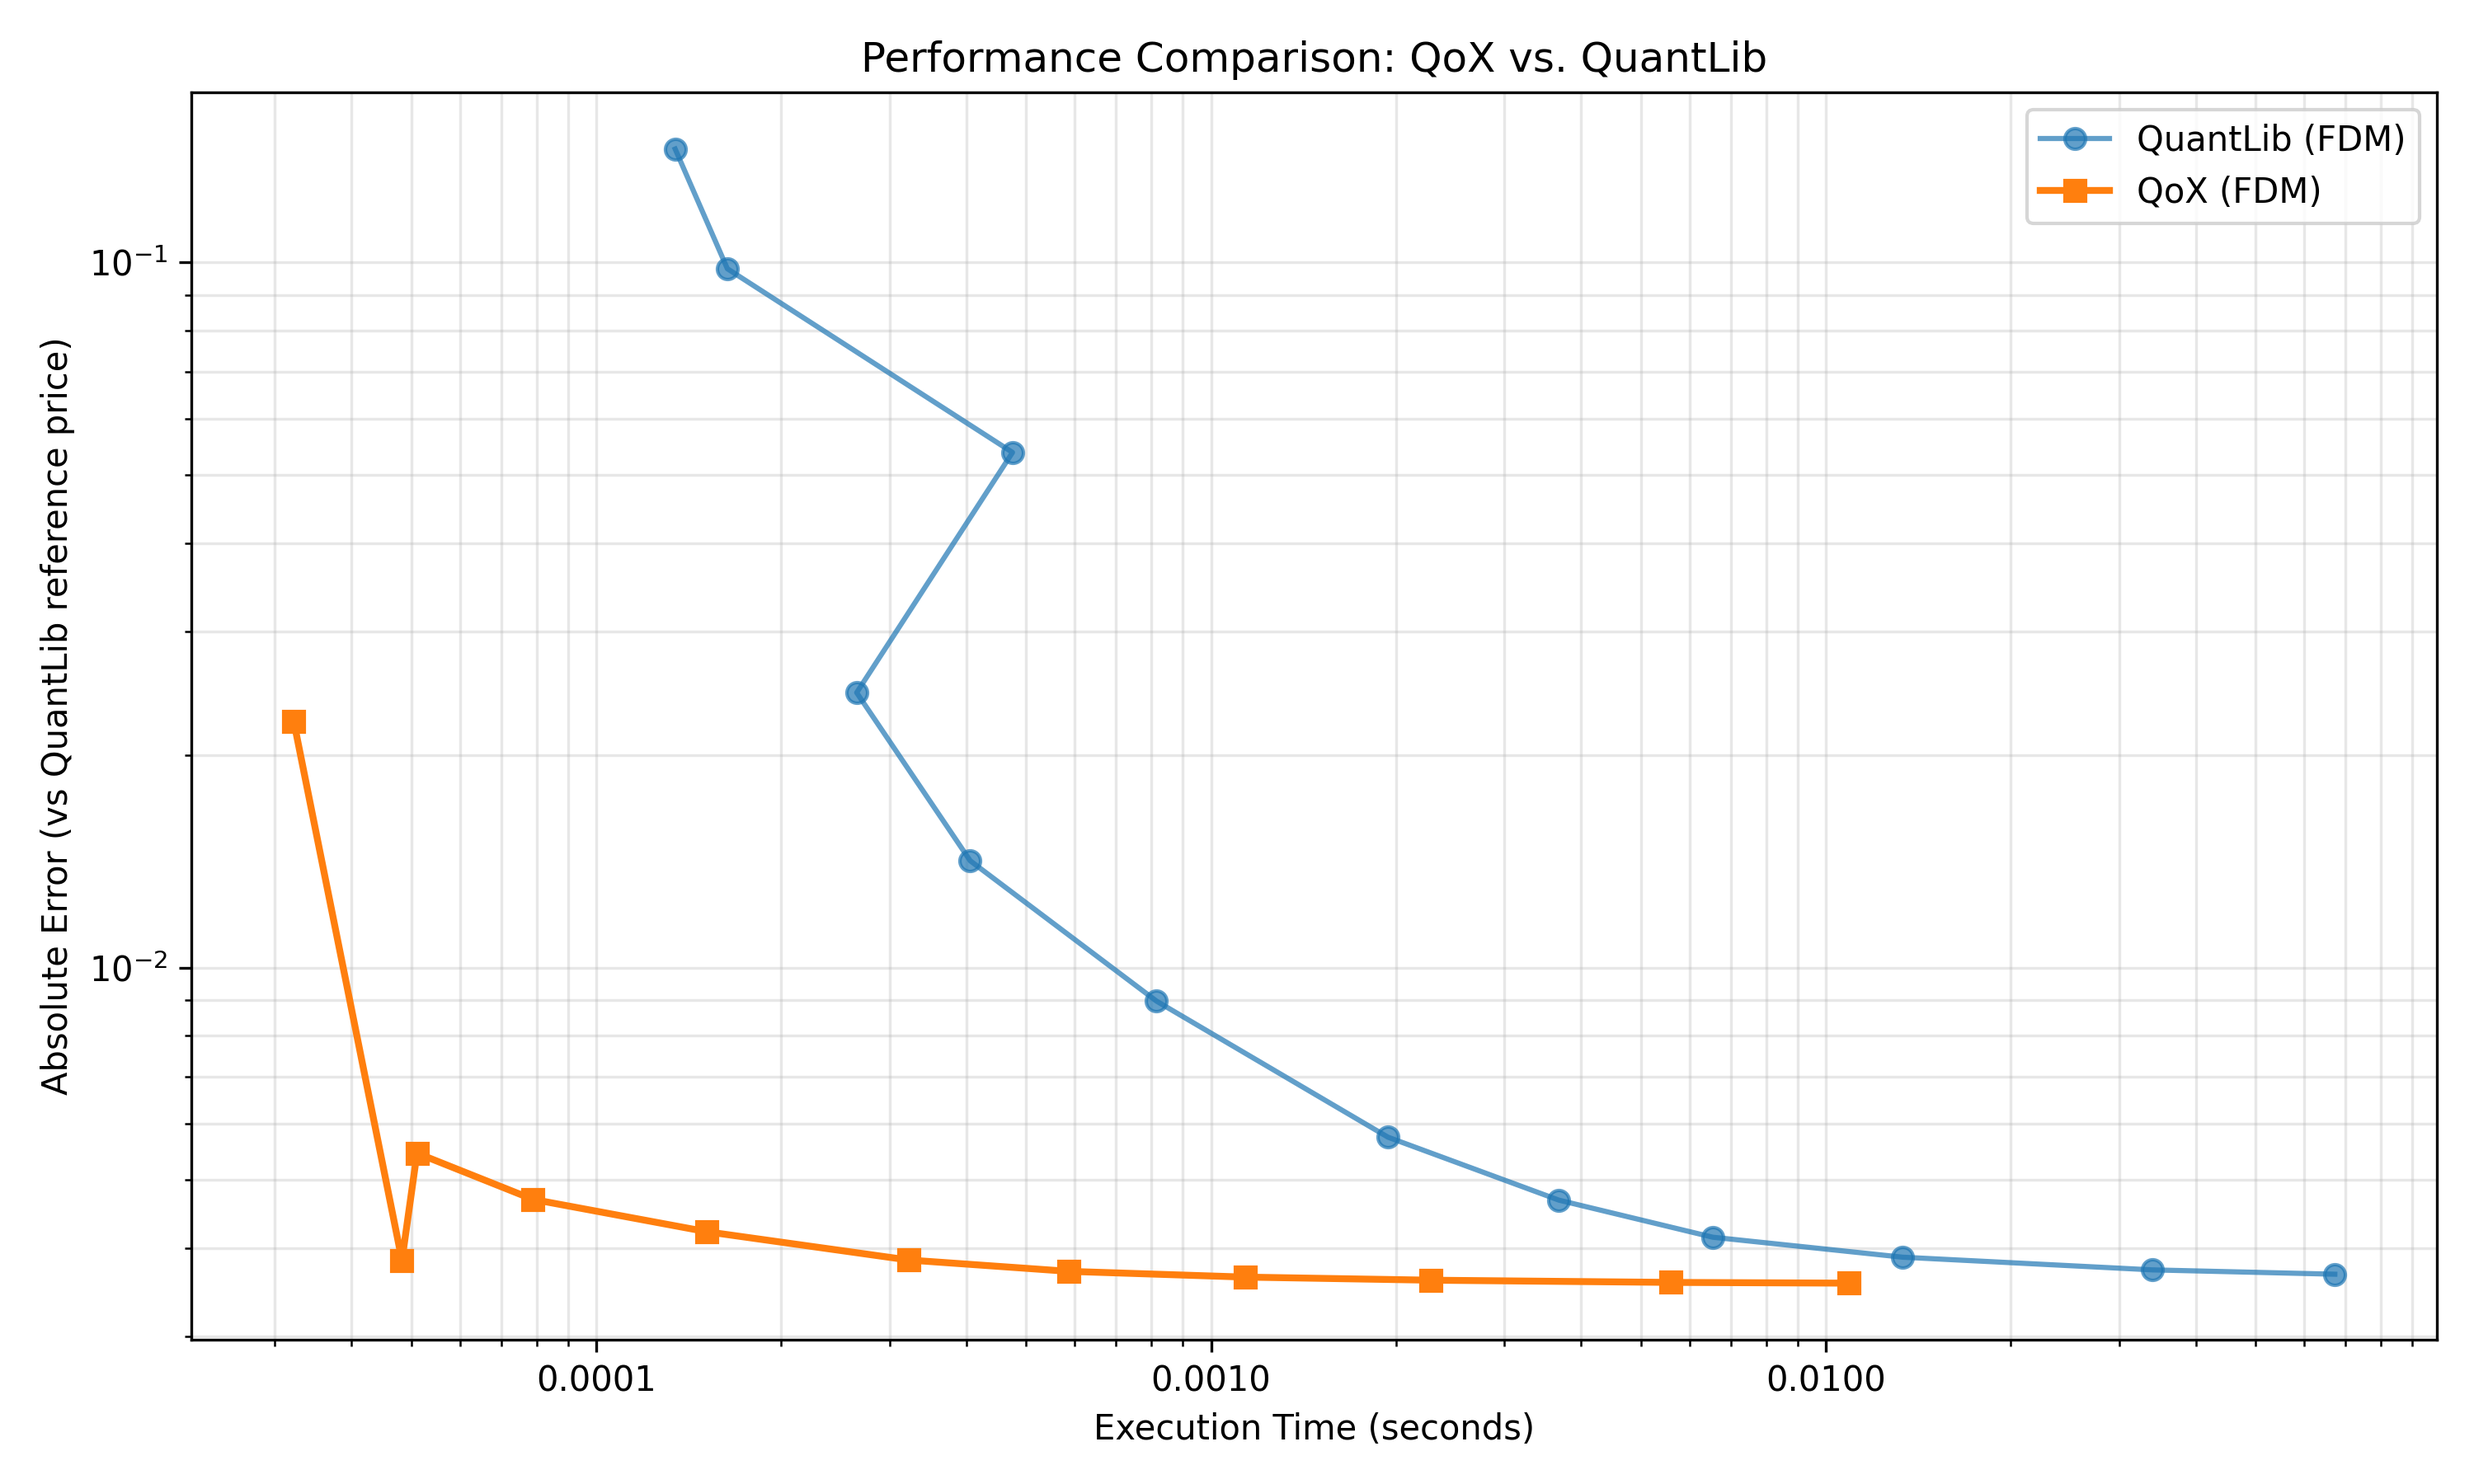
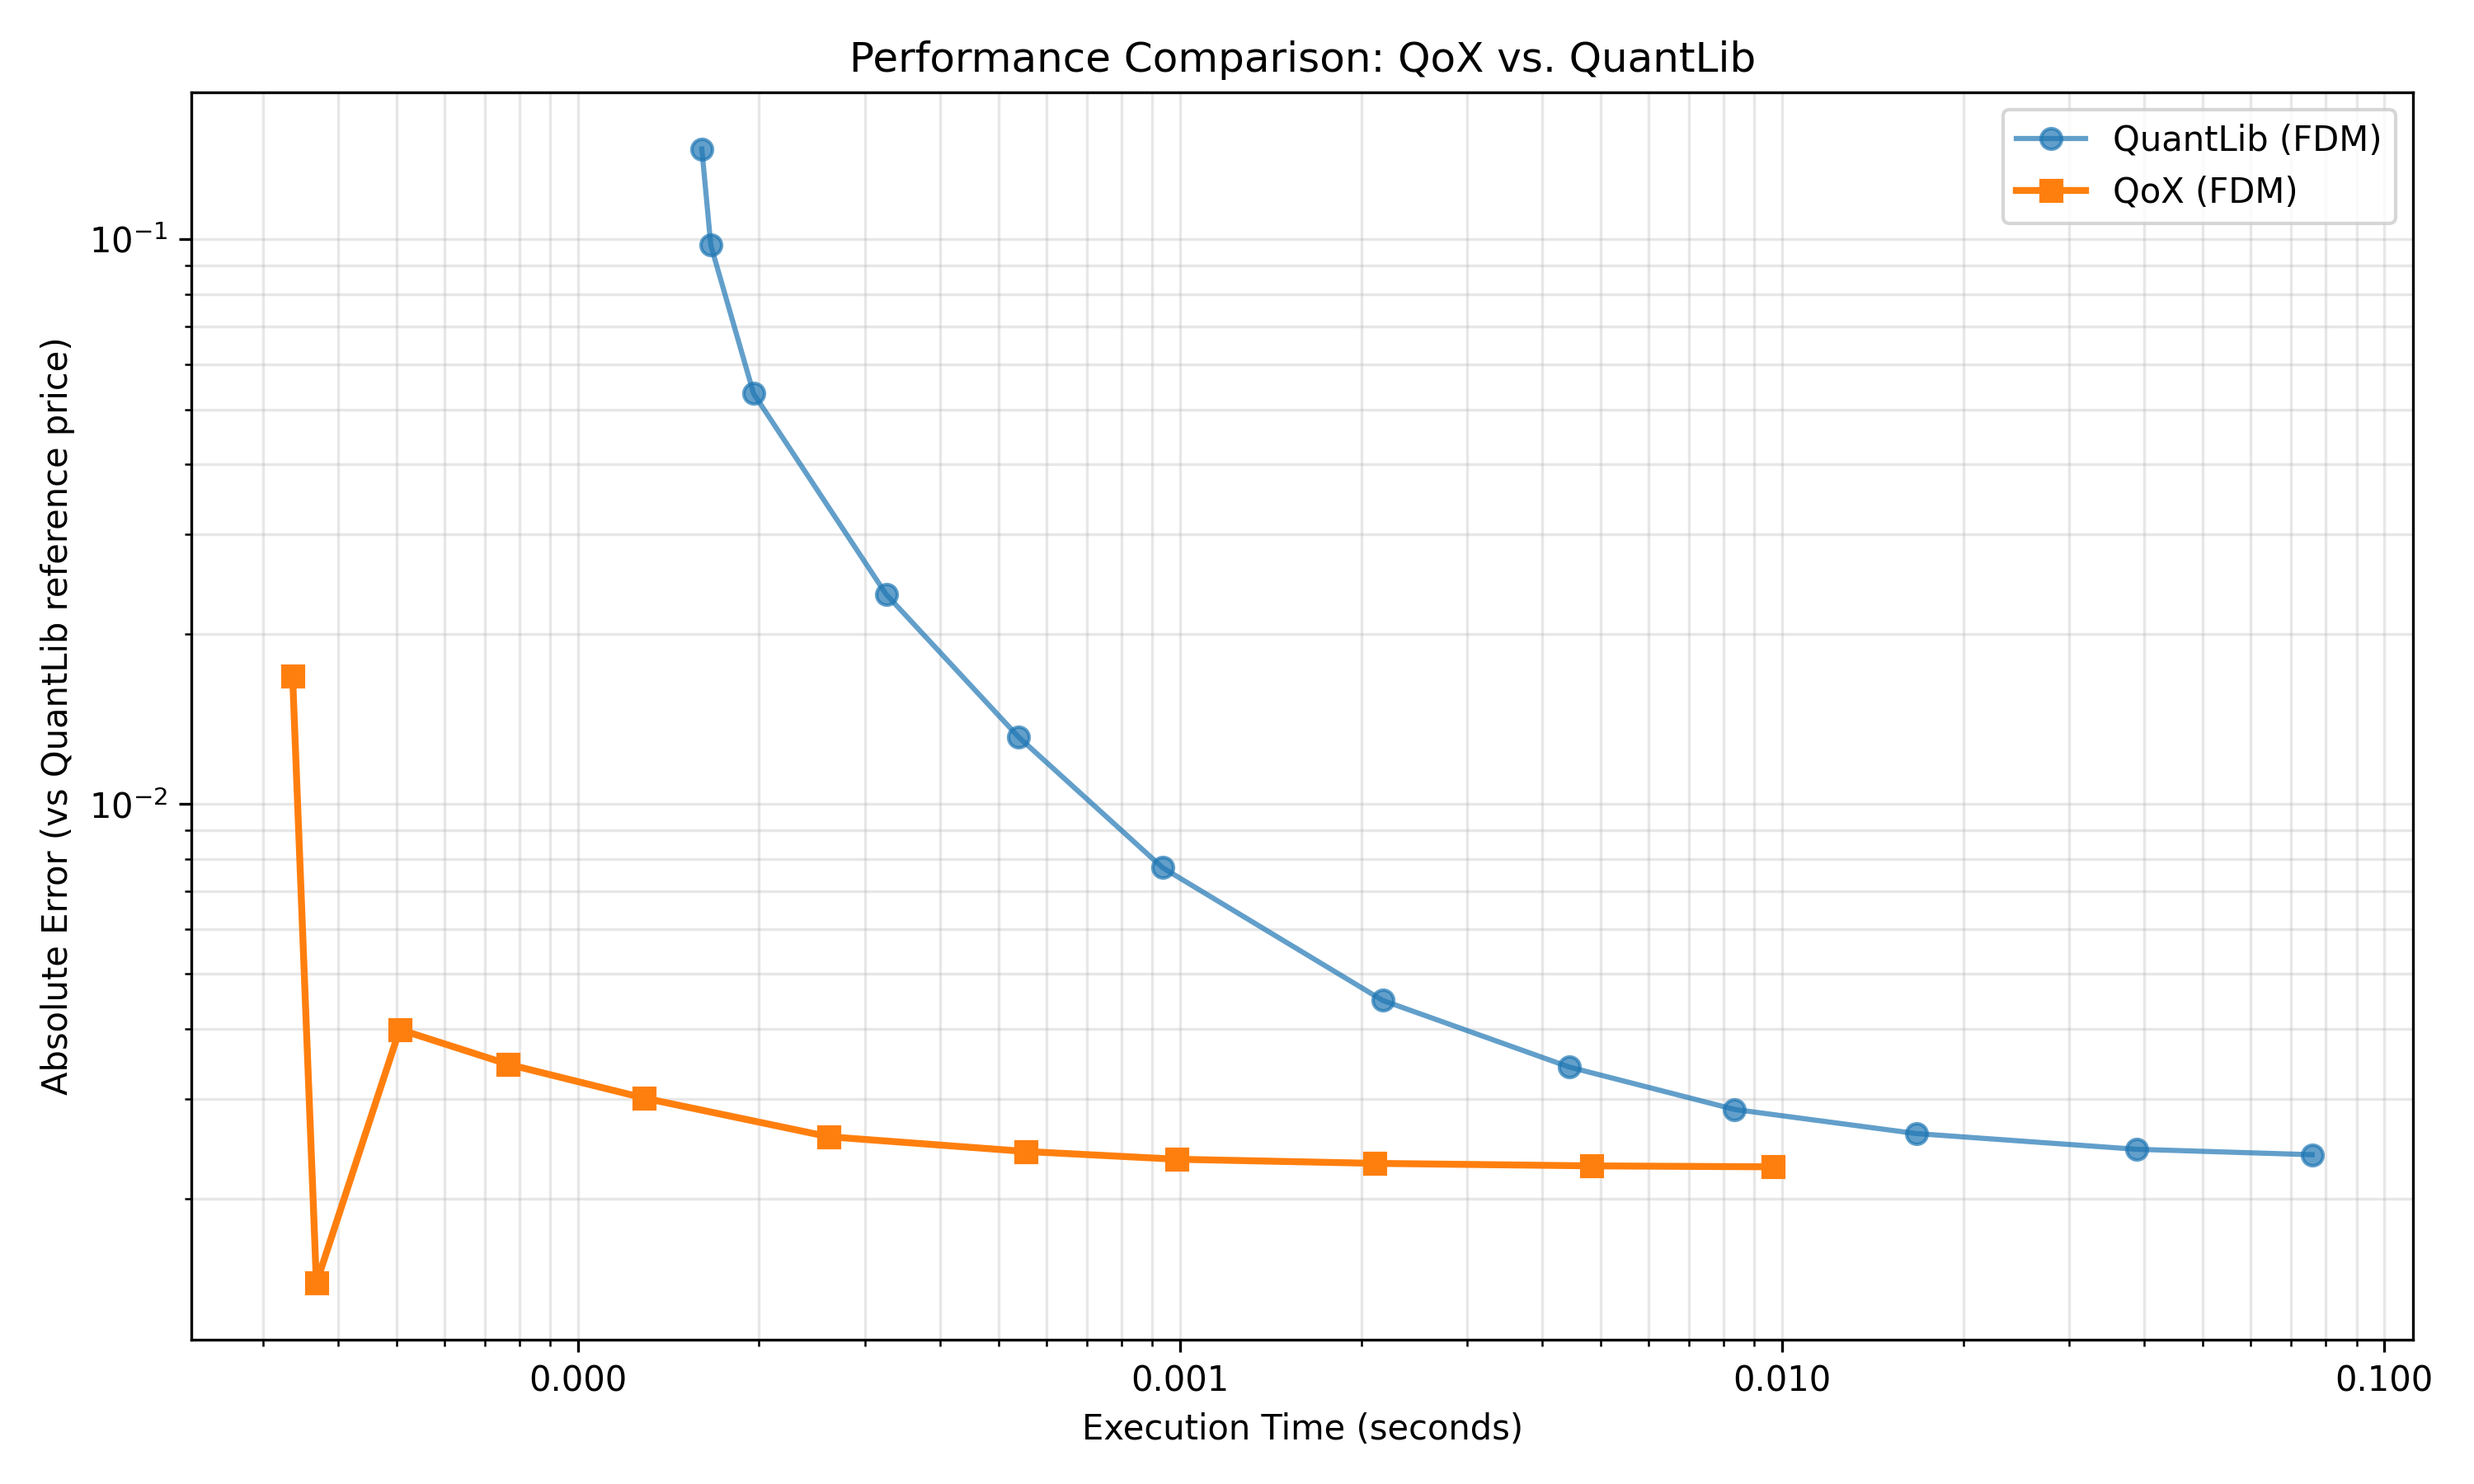
prep for 0.2.1

diff --git a/benchmarks/fdm_temporal_convergence.py b/benchmarks/fdm_temporal_convergence.py
@@ -24,7 +24,7 @@ VALUATION_TIME = datetime(2025, 9, 25, 0, 0, tzinfo=timezone.utc)
 EXPIRY_TIME = datetime(2026, 9, 25, 0, 0, tzinfo=timezone.utc)
 
 QUANTLIB_DAMPING_STEPS = 0
-GRID_POINTS = 81
+GRID_POINTS = 101
 QOX_GRID_STD_DEVS = 4.0
 
 

diff --git a/validation/european_fdm.py b/validation/european_fdm.py
@@ -6,7 +6,7 @@ import qox
 
 GRID_NODES = 1000
 TIME_STEPS = 100
-QOX_STD_DEVS = 4.0
+QOX_STD_DEVS = 5.0
 
 
 # --- Parameters ---

diff --git a/README.md b/README.md
@@ -12,7 +12,7 @@ Other projects:
 
 Pricing Black-Scholes 3x faster than the COS method, applicable to other stochastic processes. Robust across volatilities and time to expiry, even where the COS method requires more terms.
 
-Sub-microsecond discrete dividend handling for European options, applicable to any stochostic process. Machine precision is possible.
+Sub-microsecond discrete dividend handling for European options.
 
 Sub-microsecond American option pricing in development.
 
